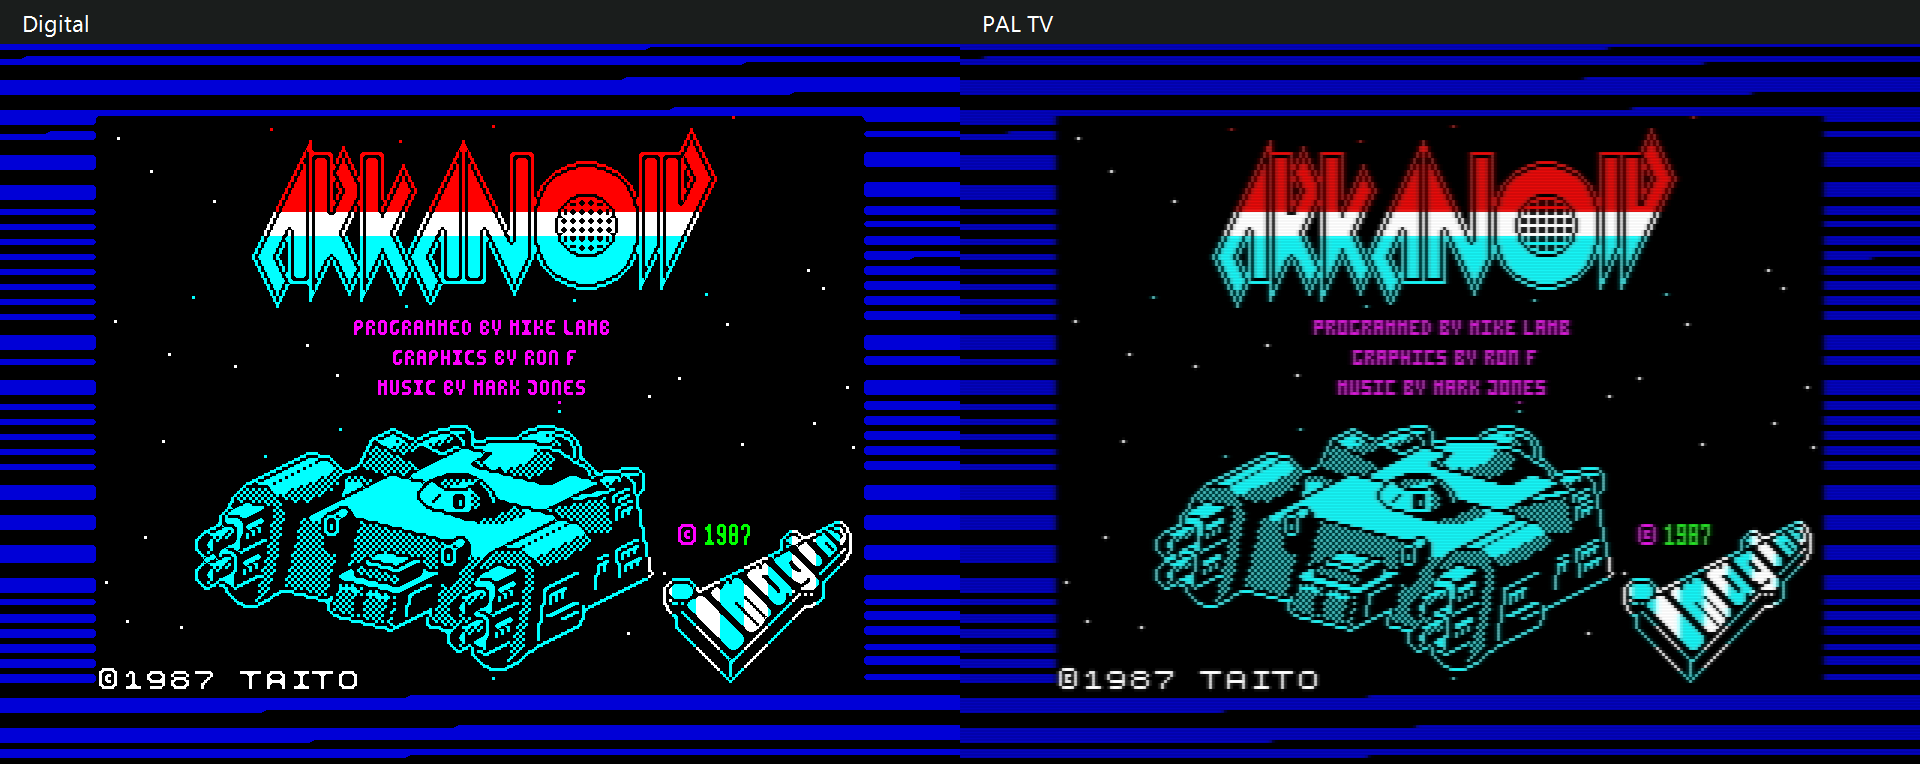
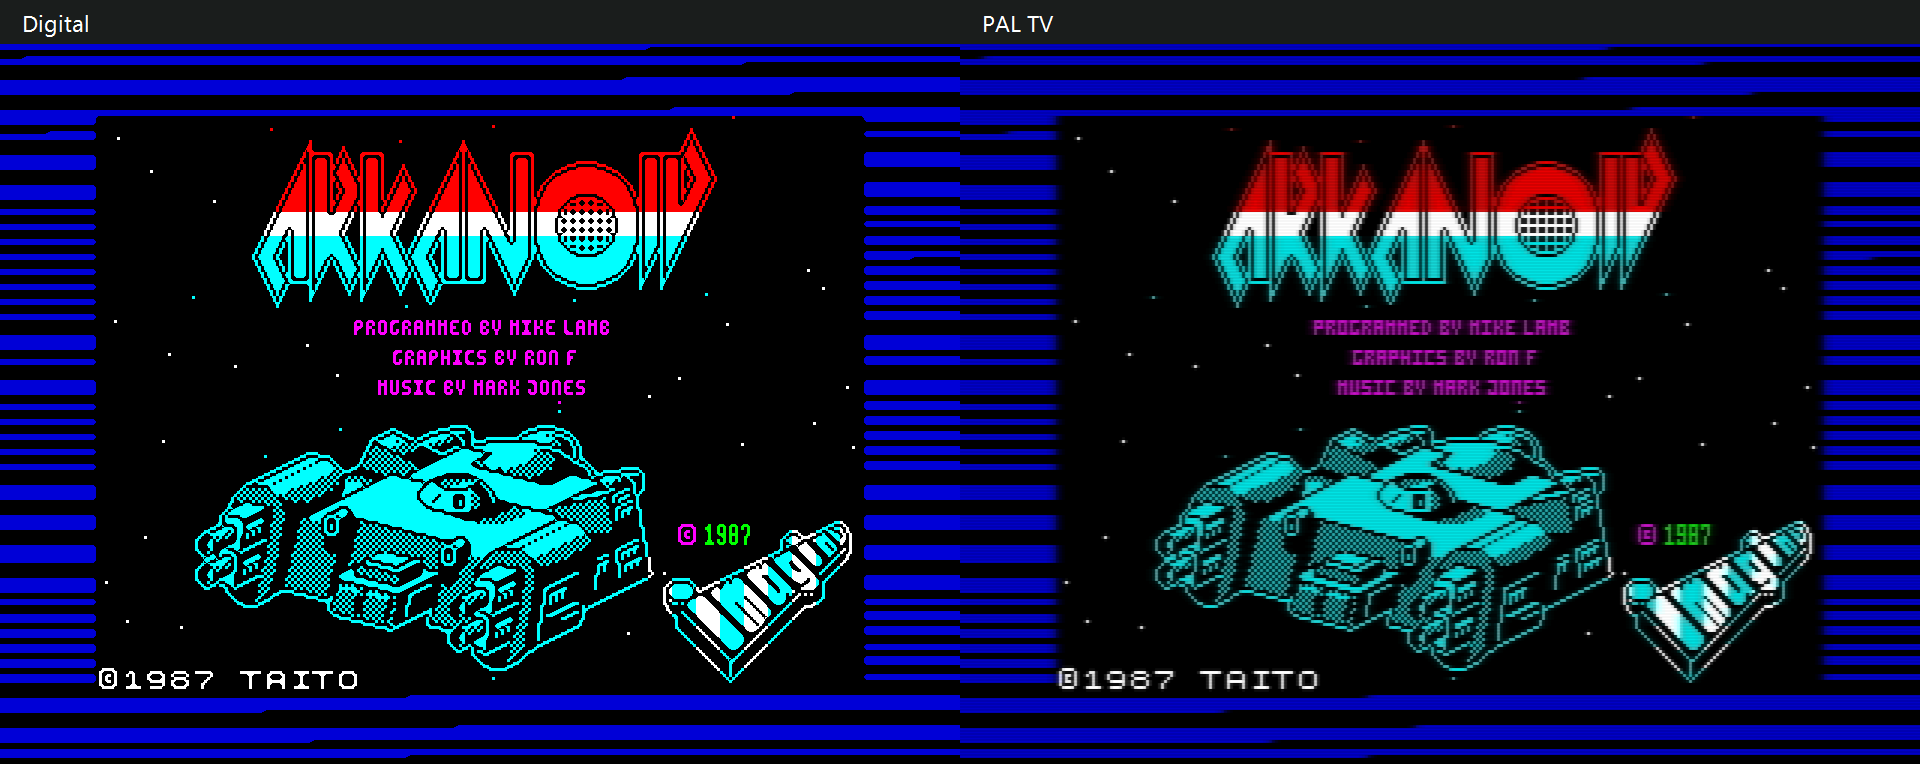
Tune PAL TV against original Spectrum composite reference

diff --git a/Derby.Windows/Video/PalTvFilter.cs b/Derby.Windows/Video/PalTvFilter.cs
@@ -12,23 +12,24 @@ internal static class PalTvFilter
             int above = Math.Max(0, y - 1) * width;
             int below = Math.Min(height - 1, y + 1) * width;
             Signal l2 = Signal.From(source[offset]);
+            Signal l3 = l2;
             Signal l1 = l2;
             Signal center = l2;
             Signal r1 = Signal.From(source[offset + Math.Min(1, width - 1)]);
+            Signal r2 = Signal.From(source[offset + Math.Min(2, width - 1)]);
             for (int x = 0; x < width; x++)
             {
-                Signal r2 = Signal.From(source[offset + Math.Min(x + 2, width - 1)]);
-                // Wider colour bandwidth loss than brightness loss; a five-tap filter
-                // suppresses alternating chroma dots without discarding the luma pattern.
+                Signal r3 = Signal.From(source[offset + Math.Min(x + 3, width - 1)]);
+                // The composite reference spreads colour across the menu edge more than luma.
                 int luma = (22 * (l1.Y + r1.Y) + 212 * center.Y + 128) >> 8;
-                int u = (7 * (l2.U + 4 * l1.U + 6 * center.U + 4 * r1.U + r2.U)) / 128;
-                int v = (7 * (l2.V + 4 * l1.V + 6 * center.V + 4 * r1.V + r2.V)) / 128;
+                int u = SpreadChroma(l3.U + r3.U, l2.U + r2.U, l1.U + r1.U, center.U);
+                int v = SpreadChroma(l3.V + r3.V, l2.V + r2.V, l1.V + r1.V, center.V);
                 int neighbour = Math.Max(Math.Max(l1.Y, r1.Y),
                     Math.Max(Luma(source[above + x]), Luma(source[below + x])));
                 // Only bright neighbours spill light, and never onto a brighter pixel.
                 int halo = Math.Min(Math.Max(0, neighbour - 180), Math.Max(0, neighbour - center.Y)) / 6;
                 row[x] = new Signal(luma + halo, u, v);
-                (l2, l1, center, r1) = (l1, center, r1, r2);
+                (l3, l2, l1, center, r1, r2) = (l2, l1, center, r1, r2, r3);
             }
 
             int firstRow = y * scale * stride;
@@ -75,6 +76,9 @@ internal static class PalTvFilter
     private static int Blend(int current, int neighbour, int weight) =>
         current + ((neighbour - current) * weight >> 8);
 
+    private static int SpreadChroma(int far, int middle, int near, int center) =>
+        15 * (2 * far + 4 * middle + 6 * near + 8 * center) / 512;
+
     private static uint Pack(int r, int g, int b) => 0xFF000000u |
         ((uint)Math.Clamp(r, 0, 255) << 16) |
         ((uint)Math.Clamp(g, 0, 255) << 8) |
@@ -88,7 +92,13 @@ internal static class PalTvFilter
         public static Signal From(uint argb)
         {
             int y = Luma(argb);
-            return new(y, (int)(argb & 255) - y, (int)((argb >> 16) & 255) - y);
+            int r = (int)((argb >> 16) & 255);
+            int g = (int)((argb >> 8) & 255);
+            int b = (int)(argb & 255);
+            int spread = Math.Max(r, Math.Max(g, b)) - Math.Min(r, Math.Min(g, b));
+            // Match the cyan-to-paper contrast without tinting or dimming neutral shades.
+            int rolloff = (y * spread + 1024) >> 11;
+            return new(y - rolloff, b - y, r - y);
         }
     }
 }

diff --git a/Derby.Windows.Tests/PalTvFilterTests.cs b/Derby.Windows.Tests/PalTvFilterTests.cs
@@ -43,6 +43,21 @@ public sealed class PalTvFilterTests
         Assert.Equal(black, output[5]);
     }
 
+    [Fact]
+    public void RomMenuCyanIsDimmerThanWhitePaperWithoutLiftingRed()
+    {
+        const int scale = 3;
+        uint[] input = Enumerable.Repeat(0xFF00FFFFu, 8).Concat(Enumerable.Repeat(0xFFFFFFFFu, 8)).ToArray();
+        uint[] output = Render(input, scale);
+        int stride = input.Length * scale;
+        double MeanChannel(int column, int shift) => Enumerable.Range(0, scale)
+            .Average(y => (int)((output[y * stride + column] >> shift) & 255));
+
+        Assert.Equal(0, MeanChannel(3 * scale, 16));
+        Assert.InRange(MeanChannel(3 * scale, 8) / MeanChannel(12 * scale, 8), 0.85, 0.89);
+        Assert.InRange(MeanChannel(3 * scale, 0) / MeanChannel(12 * scale, 0), 0.85, 0.89);
+    }
+
     private static uint[] Render(uint[] input, int scale)
     {
         var output = new uint[input.Length * scale * scale];

diff --git a/README.md b/README.md
@@ -463,7 +463,7 @@ Detailed completion evidence is retained in [Milestone History](docs/MILESTONE_H
 - Broader +D controller and disk compatibility beyond read-only drive 1. Reference: [MGT filesystem](https://sinclair.wiki.zxnet.co.uk/wiki/MGT_filesystem).
 - Demo compatibility beyond the current validation matrix
 - Broader real-game validation
-- Calibrate the CRT display filters against a documented real Spectrum and CRT setup. The current filters are visual approximations, not measured composite or RF signal models.
+- Extend PAL TV validation from a documented 128K composite ROM-menu photograph to a calibrated capture of the full colour range and transitions. The filters are visual approximations, not measured composite or RF signal models.
 - Optional game library window with searchable artwork tiles, recent items, and an explicit file picker; prefer a scalable grid over a carousel-only interface
 - Additional platform frontends, including a browser/WebAssembly adapter using the established headless engine boundary
 

diff --git a/docs/USER_GUIDE.md b/docs/USER_GUIDE.md
@@ -136,6 +136,11 @@ but not overlays, the machine state, or the F4 size cycle.
 
 ![The same Arkanoid loading frame at 3x in Digital and PAL TV](images/display-filters.png)
 
+PAL TV's colour spread and cyan highlight were tuned using the composite photo
+of the original 128K ROM menu in [Paul Farrow's video lead guide, page 11](https://mts.speccy.cz/doc/128_rgb.pdf#page=11).
+The photograph is a reference for relative contrast and edge softness, not a
+calibrated capture of every Spectrum colour. Digital does not use this tuning.
+
 ### Status Overlay
 
 Press `F2` to show or hide compact mint diagnostics at the top-right. FPS, model, tape state, and display mode appear on separate right-aligned lines, moving below full tape feedback when necessary. The model line shows `+3` for the +3 and the 48K/128K timing family for other profiles.

diff --git a/docs/MILESTONE_HISTORY.md b/docs/MILESTONE_HISTORY.md
@@ -165,4 +165,7 @@ status table in the main README remains the authoritative roadmap summary.
 - Filters run after the Spectrum frame is rendered and before host overlays are
   drawn. The phosphor mask is applied only at 3x.
 - Compared the modes using the same Arkanoid loading frame and verified 128
-  BASIC text at 2x and 3x. Calibration against a specific CRT remains separate.
+  BASIC text at 2x and 3x.
+- Tuned PAL TV's cyan highlight and horizontal colour spread against a
+  documented original 128K composite ROM-menu photograph. Digital remained
+  pixel-identical; calibration across the full colour range remains open.
